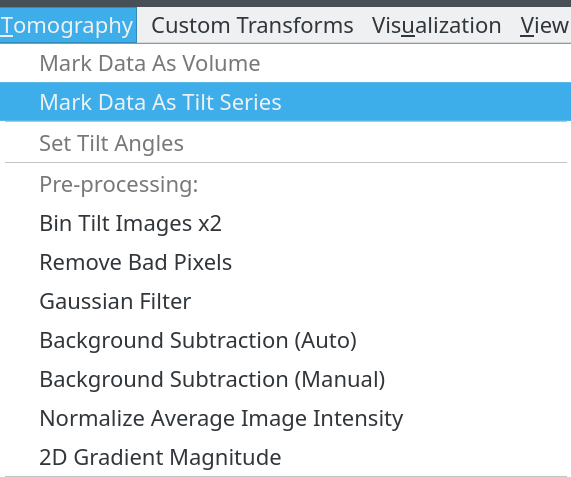
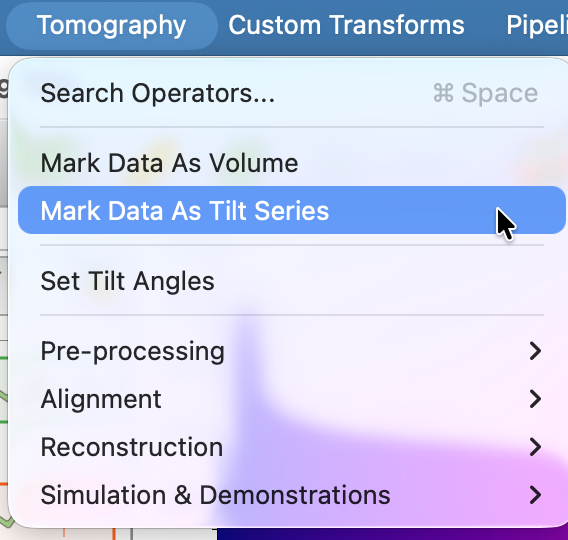
Update `alignment.md` docs with up-to-date images

diff --git a/docs/alignment.md b/docs/alignment.md
@@ -17,8 +17,6 @@ reconstruction. The tilt series sample will automatically set the tilt angles.
 To load the sample tilt series select `Star Nanoparticle (Tilt Series)` from
 the `Sample Data` menu.
 
-<!-- SCREENSHOT NEEDED: Sample Data menu showing the Star Nanoparticle
-     entries (Reconstruction and Tilt Series). -->
 ![Open sample tilt series](img/tomviz_load_tilt.png)
 
 Once loaded you will see a default view of the data showing the outline and a
@@ -28,8 +26,13 @@ slice through the center of the tilt series.
 
 ### Creating a tilt series
 
-Data can be marked as a tilt series by selecting `Set Data Type` from
-the `Tomography` menu and choosing the tilt series type. Tilt angles can then
+This sample is loaded from an EMD file that already identifies it as a tilt
+series and stores the tilt angles. Data loaded another way, such as from a
+stack of TIFF files, must be manually marked as a tilt series and have its
+angles set.
+
+Data can be marked as a tilt series by selecting `Mark Data As Tilt Series`
+from the `Tomography` menu. Tilt angles can then
 be set by selecting `Set Tilt Angles` from the `Tomography` menu, which adds
 a Set Tilt Angles transform to the pipeline.
 
